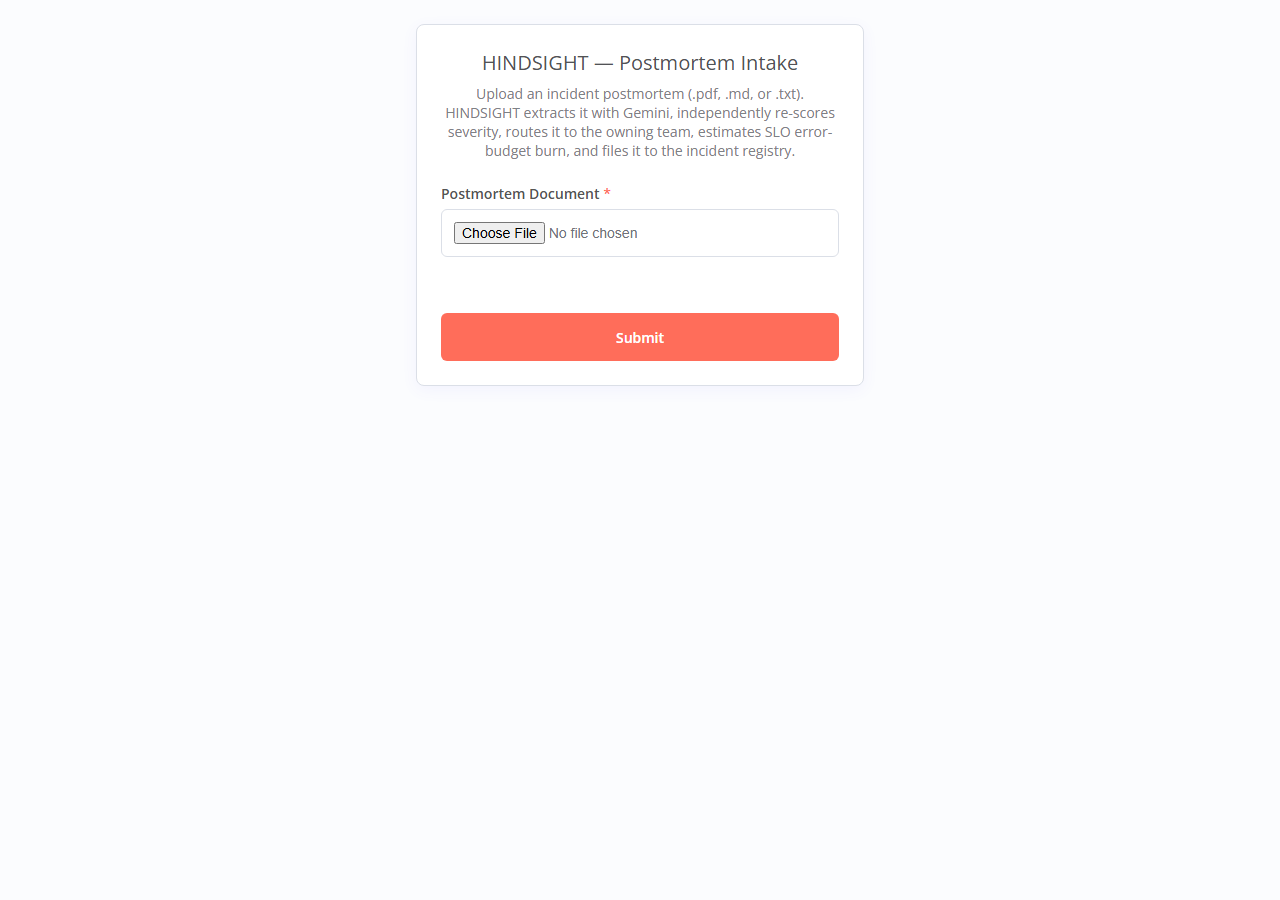
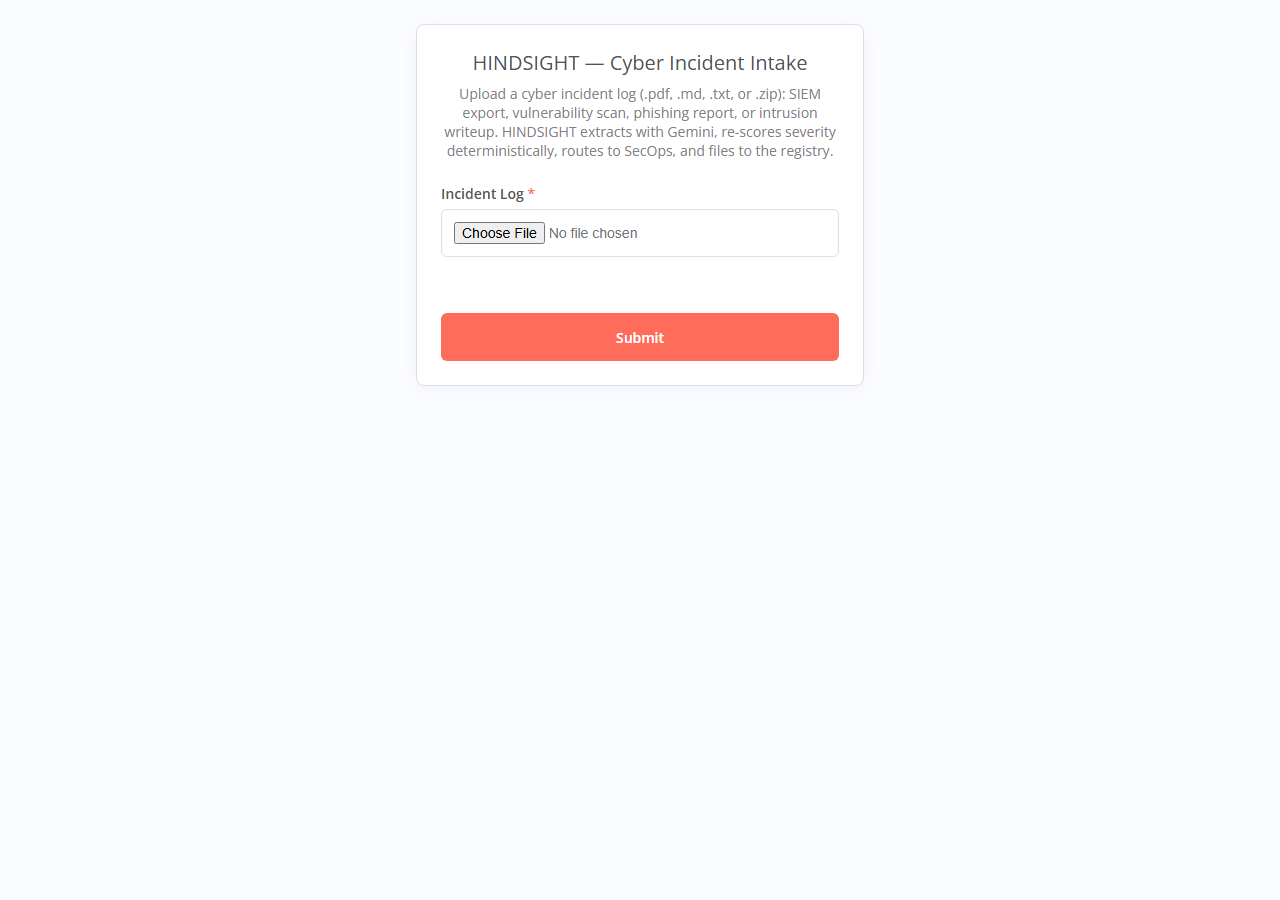
e2e+evidence: live form→email proof, standalone-image file type, Supabase capture
- Live E2E verified: real .md via public form → exec 744 SUCCESS (Gemini → SEV1/escalate/
  confidential → §8.2 subject → Gmail sent). e2e_cloud_form.mjs: fix file-input + start-after-submit detection
- extractor: standalone image (.png/.jpg…) is Vision-ready (SIEM screenshot) + test → 8 extractor tests
- HNSW applied to live Supabase (fixes /search recall); docs/screenshot-supabase.png evidence card
- README: live-status rows (E2E, file types) + Supabase/E2E reproduce; badge 198; VALIDATION counts

Changed region(s): [[0.3438, 0.0622, 0.6562, 0.2489]]

diff --git a/docs/supabase-evidence.html b/docs/supabase-evidence.html
@@ -1,0 +1,52 @@
+<!DOCTYPE html>
+<html lang="en"><head><meta charset="utf-8">
+<style>
+  :root { color-scheme: dark; }
+  body { margin:0; background:#0B0F14; color:#E6EDF3; font-family:Inter,Arial,sans-serif; padding:28px; }
+  .wrap { max-width:920px; margin:0 auto; }
+  h1 { font-size:22px; margin:0 0 4px; }
+  .sub { color:#8696A7; font-size:13px; margin-bottom:20px; }
+  .grid { display:grid; grid-template-columns:repeat(4,1fr); gap:12px; margin-bottom:22px; }
+  .card { border:1px solid #1C232C; border-radius:10px; padding:14px; background:#11161D; }
+  .card .k { font-size:11px; text-transform:uppercase; letter-spacing:.08em; color:#8696A7; }
+  .card .v { font-size:20px; font-weight:700; margin-top:6px; color:#4DD0A7; }
+  h2 { font-size:14px; color:#C7D2DC; margin:20px 0 8px; }
+  table { width:100%; border-collapse:collapse; font-size:13px; }
+  th,td { text-align:left; padding:7px 10px; border-bottom:1px solid #1C232C; }
+  th { color:#8696A7; font-weight:600; }
+  code { background:#1C232C; padding:1px 6px; border-radius:4px; font-size:12px; color:#9AD1C0; }
+  .sim { font-weight:700; color:#4DD0A7; }
+  .tag { display:inline-block; padding:1px 7px; border-radius:5px; font-size:11px; font-weight:700; }
+  .conf { background:#FF4D5E22; color:#FF4D5E; }
+  .int { background:#FF9F4322; color:#FF9F43; }
+  .foot { color:#6b7785; font-size:11px; margin-top:18px; }
+</style></head>
+<body><div class="wrap">
+  <h1>BON-5 · Semantic Search — Supabase pgvector (live verification)</h1>
+  <div class="sub">project <code>zduaexkkhdnltyelvuwn</code> · region eu-central-1 · status ACTIVE_HEALTHY · verified 2026-06-26</div>
+
+  <div class="grid">
+    <div class="card"><div class="k">pgvector</div><div class="v">0.8.0</div></div>
+    <div class="card"><div class="k">Indexed rows</div><div class="v">6 / 6</div></div>
+    <div class="card"><div class="k">Embedding dim</div><div class="v">768</div></div>
+    <div class="card"><div class="k">ANN index</div><div class="v">HNSW</div></div>
+  </div>
+
+  <h2>Table <code>public.hindsight_incidents</code> · RLS enabled · RPC <code>match_hindsight_incidents(query, count, threshold)</code></h2>
+  <table>
+    <tr><th>column</th><th>type</th><th>column</th><th>type</th></tr>
+    <tr><td>document_id <span style="color:#6b7785">(PK)</span></td><td>text</td><td>summary</td><td>text</td></tr>
+    <tr><td>filename</td><td>text</td><td><b>embedding</b></td><td><b>vector(768)</b></td></tr>
+    <tr><td>classification</td><td>text</td><td>processed_at</td><td>timestamptz</td></tr>
+    <tr><td>department / sensitivity / routing_tag</td><td>text</td><td>metadata</td><td>jsonb</td></tr>
+  </table>
+
+  <h2>Live semantic search — query: <code>"critical openssl remote code execution vulnerability"</code></h2>
+  <table>
+    <tr><th>rank</th><th>similarity</th><th>classification</th><th>document</th></tr>
+    <tr><td>1</td><td class="sim">0.295</td><td><span class="tag conf">vulnerability-scan</span></td><td>vuln_scan_critical_openssl.md (CVE-2026-21841, CVSS 9.8)</td></tr>
+    <tr><td>2</td><td class="sim">0.048</td><td><span class="tag int">intrusion</span></td><td>credential-stuffing brute force</td></tr>
+  </table>
+  <div class="foot">HNSW replaced ivfflat(lists=100) — before the fix the relevant OpenSSL doc was missed; after, it ranks #1.
+  Reproduce: <code>POST /search {"query":"…"}</code> (FastAPI → Supabase RPC). Migration: <code>migrations/001_pgvector_incidents.sql</code>.</div>
+</div></body></html>

diff --git a/extractors/extract_document.py b/extractors/extract_document.py
@@ -140,6 +140,22 @@ def extract_text(path: str, file_type: str) -> dict:
     }
 
 
+IMAGE_EXTS = ("png", "jpg", "jpeg", "gif", "webp", "bmp", "tif", "tiff")
+
+
+def extract_image(path: str, file_type: str) -> dict:
+    """A standalone image (e.g. a SIEM dashboard screenshot) is Vision-only: it
+    has no text layer, but the file itself is the image the Vision branch reads."""
+    return {
+        "filename": os.path.basename(path),
+        "file_type": file_type,
+        "extracted_text": "",
+        "char_count": 0,
+        "images": [{"path": path, "page": 0}],
+        "ok": True,
+    }
+
+
 def extract(path: str, image_dir: str) -> dict:
     if not os.path.isfile(path):
         return _err(os.path.basename(path), "unknown", f"file not found: {path}")
@@ -153,6 +169,8 @@ def extract(path: str, image_dir: str) -> dict:
         result = extract_docx(path)
     elif ext in ("txt", "md", "markdown", "log"):
         result = extract_text(path, ext)
+    elif ext in IMAGE_EXTS:
+        result = extract_image(path, ext)
     else:
         return _err(os.path.basename(path), ext, f"unsupported file type: {ext}")
 

diff --git a/tests/test_extractor.py b/tests/test_extractor.py
@@ -78,6 +78,23 @@ def test_extractor_text_cp1252_fallback(tmp_path) -> None:
     assert chr(0x2013) in text  # 0x96 decoded to en dash
 
 
+def test_extractor_standalone_image_vision_ready(tmp_path) -> None:
+    """A standalone image (e.g. a SIEM screenshot) is Vision-ready: no text, image present."""
+    png = tmp_path / "siem_dashboard.png"
+    # minimal valid 1x1 PNG
+    png.write_bytes(
+        bytes.fromhex(
[2 lines of base64/hex data omitted]
+        )
+    )
+    data = _run(str(png))
+    assert data["ok"] is True
+    assert data["file_type"] == "png"
+    assert data["extracted_text"] == ""
+    assert any(img.get("path") for img in data["images"])  # the file itself -> Vision
+
+
 def test_extractor_docx_happy_path(tmp_path) -> None:
     """DOCX: paragraphs AND table cells must be extracted (postmortems use tables)."""
     try:

diff --git a/README.md b/README.md
@@ -6,7 +6,7 @@
 
 **Enterprise document intelligence pipeline:** n8n · Google Gemini 3 Flash · FastAPI · Google Sheets · Gmail · Supabase pgvector
 
-[![tests](https://img.shields.io/badge/tests-197%20passing-brightgreen)](#verification)
+[![tests](https://img.shields.io/badge/tests-198%20passing-brightgreen)](#verification)
 [![Python](https://img.shields.io/badge/Python-3.12-blue)](#technology-stack)
 [![n8n](https://img.shields.io/badge/n8n-Cloud%20%2B%20Docker-orange)](#deployment-paths)
 [![Gemini](https://img.shields.io/badge/Gemini-3%20Flash%20%2B%20Vision-4285F4)](#technology-stack)
@@ -304,8 +304,11 @@ Evidence index: [`docs/VALIDATION.md`](docs/VALIDATION.md)
 | **Local FastAPI** | `/health`, `/enrich`, `/sensitivity`, `/digest/preview` exercised | ✅ |
 | **Email format** | per-document · SEV1 alert · 24h digest rendered + screenshotted | ✅ |
 | **Supabase (BON-5)** | pgvector 0.8.0 · `hindsight_incidents` 6×768-dim · HNSW index · `match_*` RPC · ranked search | ✅ live |
+| **Live E2E (form→email)** | real `.md` uploaded to the public form → exec **744** success: Gemini → SEV1/escalate/confidential → §8.2 subject → **Gmail sent** (msg-id `19f00ba3…`) | ✅ live |
+| **File types** | `.md` · `.txt` · `.pdf` (+embedded-image Vision) · `.docx` · `.zip` (batch) · `.png/.jpg` (Vision) | ✅ tested |
 
-Sticky notes on the Cloud workflow are applied/refreshed with `scripts/add_cloud_sticky_notes.py`.
+Reproduce the live E2E (uploads a real file to the public form, polls the execution):
+`node scripts\e2e_cloud_form.mjs`. Sticky notes: `scripts/add_cloud_sticky_notes.py`. Supabase evidence: [`docs/screenshot-supabase.png`](docs/screenshot-supabase.png).
 
 ---
 

diff --git a/docs/VALIDATION.md b/docs/VALIDATION.md
@@ -9,7 +9,7 @@ Assignment mapping: [ASSIGNMENT-MAP.md](ASSIGNMENT-MAP.md) · Bonus detail: [bon
 | Suite | What it proves | Checks | Result |
 |---|---|---:|:---:|
 | FastAPI `pytest` | Core + bonus endpoints + sensitivity/catalog/alias/digest-window/escaping regressions | 70 | ✅ |
-| Extractor `pytest` | MD + real PDF/image (BON-1) + DOCX + TXT happy paths, corrupt-DOCX guard, cp1252 fallback | 7 | ✅ |
+| Extractor `pytest` | MD + PDF(+image) + DOCX + TXT + standalone-image + corrupt-DOCX + cp1252 | 8 | ✅ |
 | Cloud `enrich` + `parse` | Parity + sensitivity-regex + sheet_row defaults + alias word-boundary + parse classification/fence | 76 | ✅ |
 | Cloud `prepare` | Upload guards, ZIP, MIME | 7 | ✅ |
 | Cloud `compose` | §7.2 row + §8.2 subject contract + Sheet link | 8 | ✅ |